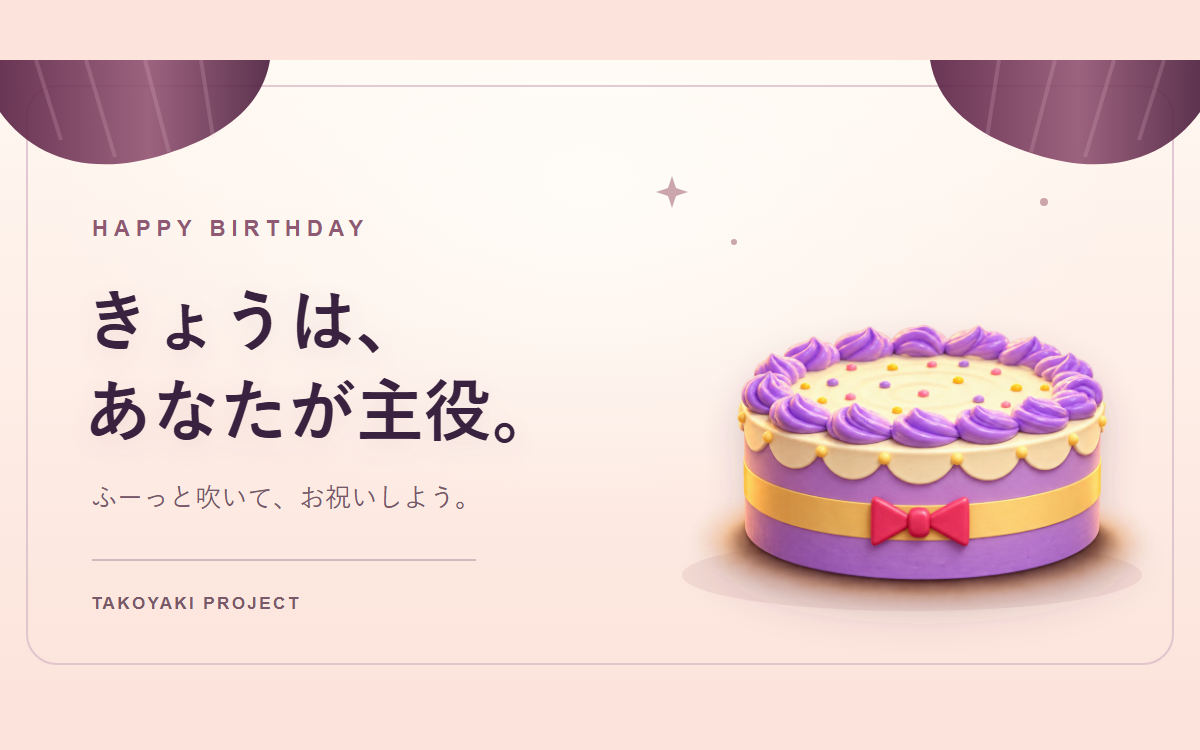
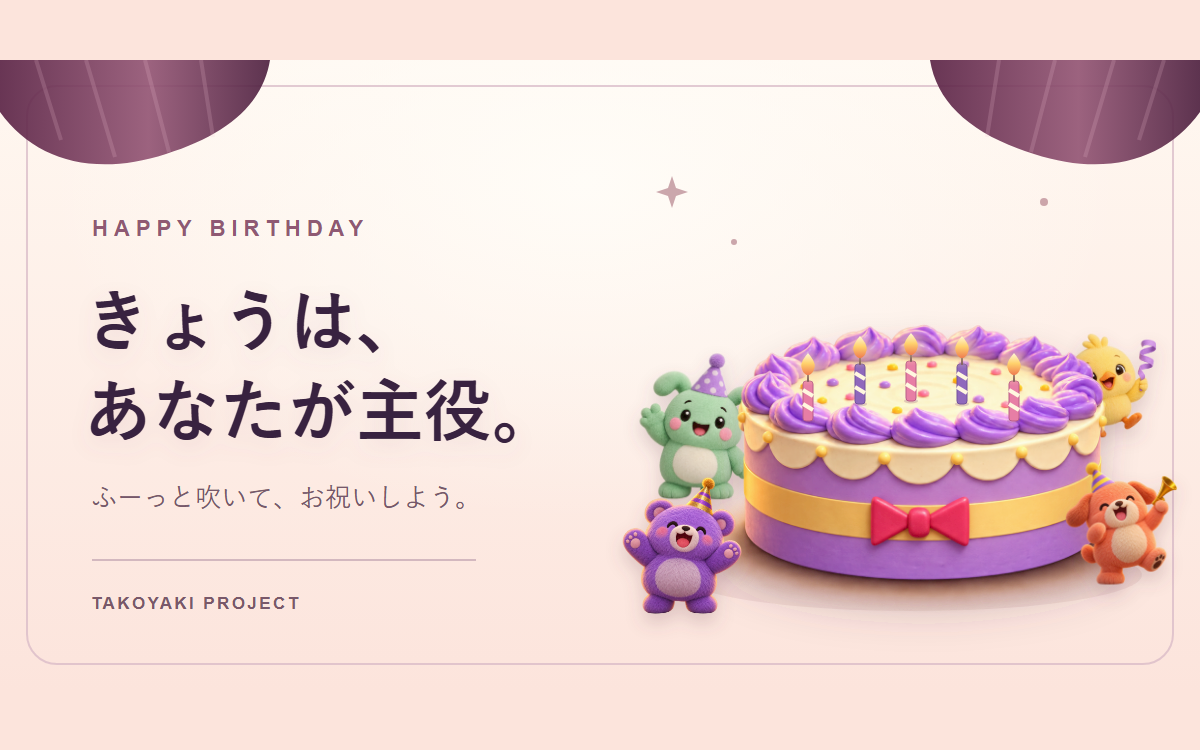
Refresh birthday app portfolio thumbnail

diff --git a/src/data/works.ts b/src/data/works.ts
@@ -211,7 +211,7 @@ const worksData: Work[] = [
     categories: ["生活", "創作"],
     status: "公開中",
     platform: "GitHub Pages",
-    imageUrl: "/images/thumb-happybirthday-tome-card.png",
+    imageUrl: "/images/thumb-happybirthday-tome-card.png?v=2",
     appUrl: "https://takoyaki-project.github.io/happybirthday-tome/",
     githubUrl: "https://github.com/takoyaki-project/happybirthday-tome",
     isPublic: true,
